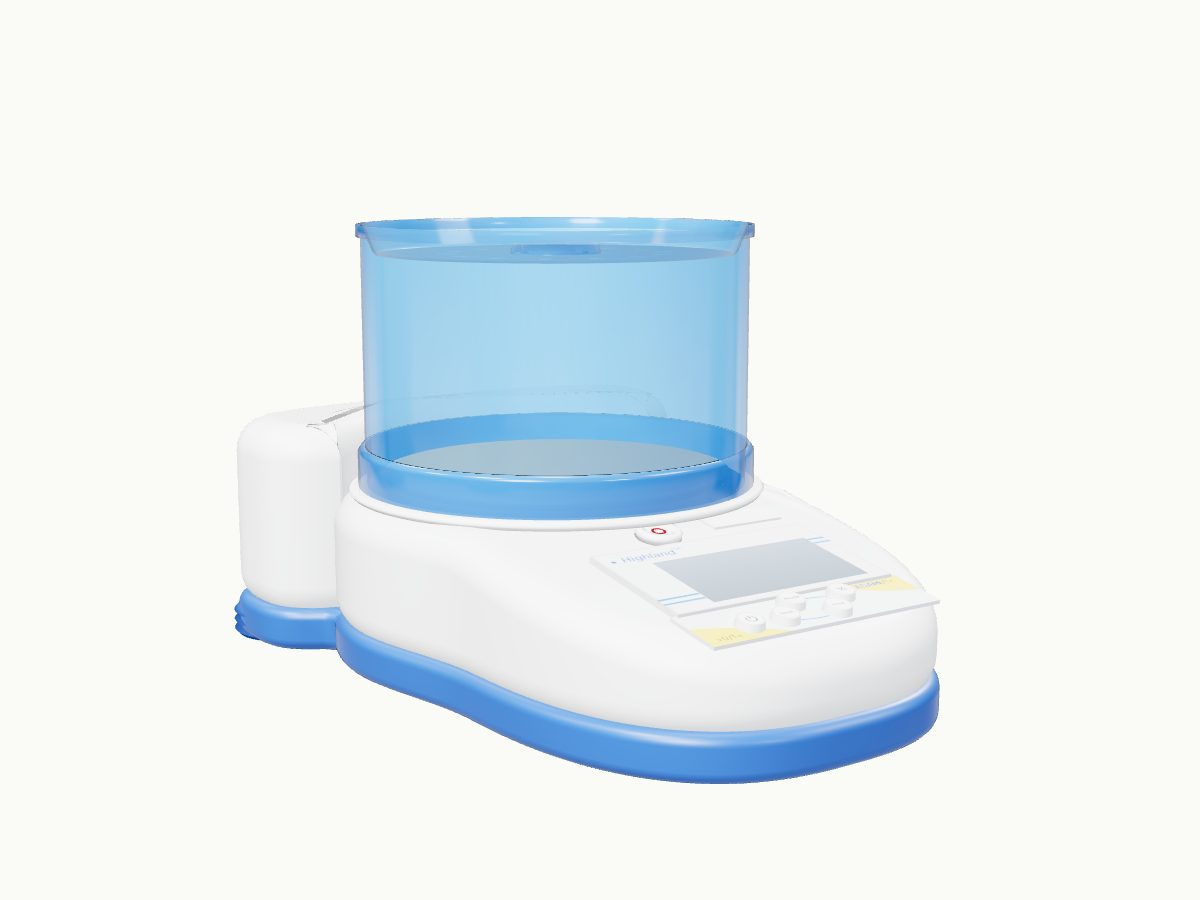
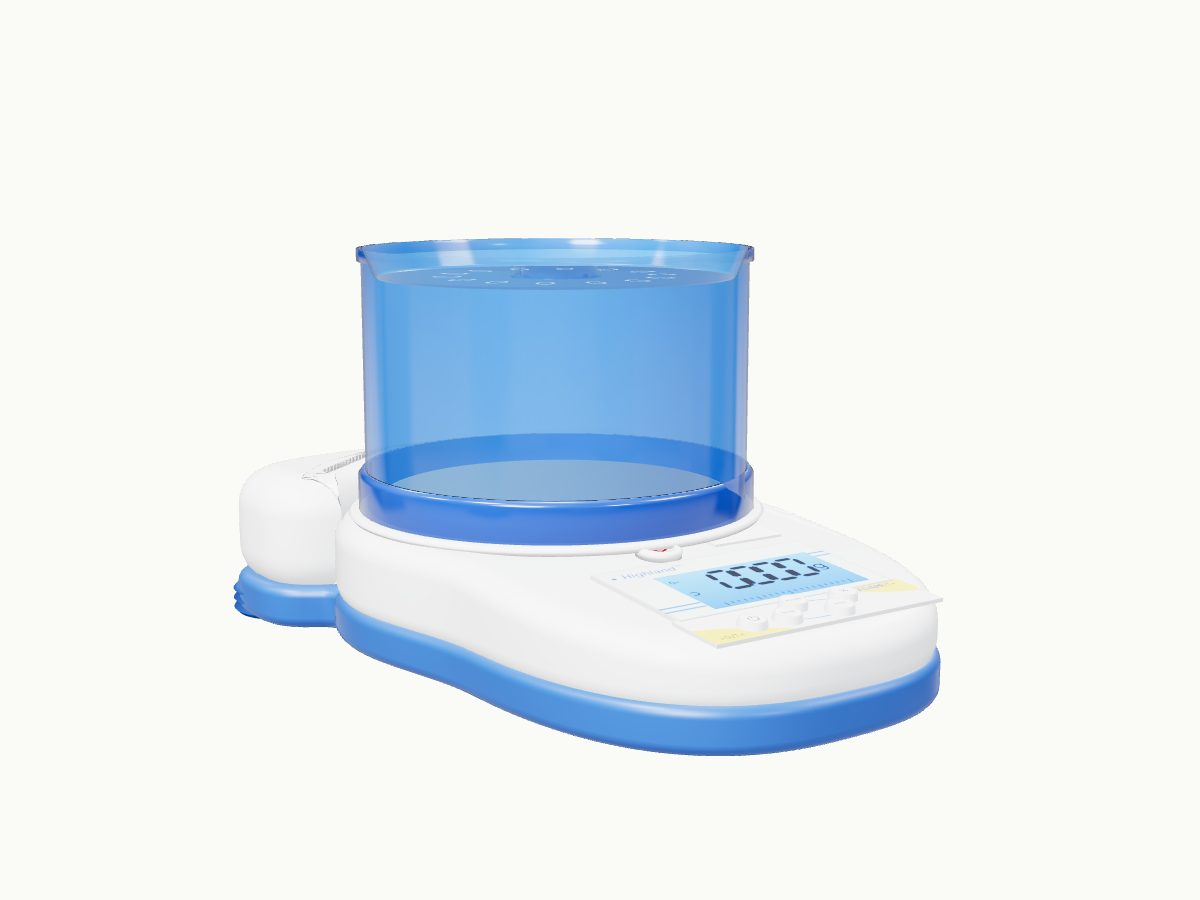
fix(web): Highland closer to the photo
Starts powered with the blue backlit 0.000 g reading (poster and hero),
as in the product photo. Slimmer body: deck 42 mm sloping to a 32 mm
nose, thinner display frame. The rear handle is now a low rounded lobe
just above the deck instead of an upright block (the photo shows no part
of the body at the datasheet's 80 mm). Saturated translucent shield with
darker band and rim, and highlighted lid holes.

Changed region(s): [[0.2775, 0.2178, 0.74, 0.6844], [0.185, 0.6222, 0.8017, 0.8711]]

diff --git a/apps/web/src/lib/showroom/models/adam-highland.ts b/apps/web/src/lib/showroom/models/adam-highland.ts
@@ -11,16 +11,20 @@
  *   • Protector de corrientes Ø 132 × 90 mm
  *   • Pantalla LCD retroiluminada con dígitos de 18 mm
  * Leído de la fotografía (estimado †):
- *   • Planta en lágrima: frente ancho y redondeado (174 mm) que se estrecha
- *     hacia atrás alrededor del protector (Ø 156 †) y termina en un lóbulo
- *     elevado que hace de asa (76 × 62 mm †), con el hueco para los dedos debajo
- *     y un apoyo azul estriado bajo el lóbulo †
- *   • Cubierta blanca sobre una base azul de 15 mm †; la cubierta baja hacia el
- *     frente (58 → 38 mm, ~11° †); el lóbulo del asa llega a los 80 mm oficiales
+ *   • Planta en lágrima: nariz delantera estrecha y redondeada (140 mm †),
+ *     círculo alrededor del protector (Ø 154 †) y atrás un bloque bajo de lado
+ *     a lado (los 174 mm oficiales) que hace de asa: sus lóbulos asoman a los
+ *     lados (72 mm de fondo †), con patas azules estriadas debajo †
+ *   • Cubierta blanca delgada sobre una base azul de 15 mm †; baja hacia una
+ *     nariz plana con el teclado (42 → 32 mm, ~5° †). Los lóbulos del asa
+ *     quedan apenas sobre la cubierta (54 mm †): la fotografía no muestra
+ *     ningún punto del cuerpo a 80 mm, así que manda la fotografía y la cifra
+ *     oficial de alto no se alcanza (quizá incluye el plato o el asiento del
+ *     protector; sin confirmar)
  *   • Centro del plato 26 mm detrás del centro del cuerpo †
- *   • Marco de pantalla 100 × 44 mm con ventana LCD 70 × 30 mm †, logo
+ *   • Marco de pantalla 82 × 44 mm con ventana LCD 60 × 30 mm †, logo
  *     «Highland™» arriba a la izquierda y franjas azules a los lados
- *   • Teclado de membrana 120 × 20 mm †: encendido aparte; Smpl, Mode, % y
+ *   • Teclado de membrana 86 × 20 mm †: encendido aparte; Smpl, Mode, % y
  *     Print sobre un óvalo azul; tara amarilla abajo a la izquierda y arriba a
  *     la derecha; logo ADAM entre pantalla y teclado
  *   • Nivel de burbuja delante del protector y placa de modelo a su derecha †
@@ -30,7 +34,8 @@
  * Ejes: x = ancho, y = alto (0 = suelo), z = fondo; el FRENTE (teclado) mira a
  * +z y el asa queda atrás (z = −126).
  *
- * Animación: `setPower(true)` enciende la retroiluminación («0.000 g»).
+ * Animación: arranca encendida («0.000 g», como la fotografía y el póster);
+ * `setPower(false)` apaga la retroiluminación.
  * `root.userData.sample = 1` coloca una muestra: la tapa del protector se
  * levanta, el platillo baja al plato, la tapa cierra y la lectura sube y se
  * asienta con una oscilación amortiguada; `0` la retira y vuelve a cero.
@@ -43,7 +48,7 @@ import { SANS, canvasTexture, disposer, lathe } from './kit';
 /* ── medidas (mm) ─────────────────────────────────────────────────────────── */
 const HALF_W = 87; // 174 / 2, oficial
 const FRONT = 126; // 252 / 2, oficial
-const TOP = 80; // alto oficial: lo alcanza el lóbulo del asa
+const LOBE_TOP = 54; // lóbulos del asa: apenas sobre la cubierta, como en la fotografía †
 const ZC = -26; // centro del plato y del protector †
 const RING = 77; // radio de la cubierta alrededor del protector †
 const NOSE_Z = 30; // donde empieza la nariz delantera †
@@ -52,8 +57,8 @@ const HUMP_Z = -90; // centro del bloque trasero del asa †
 const HUMP_B = 36; // medio fondo del bloque trasero †
 const HUMP_IN = 74; // radio de su cara cóncava, alrededor del protector †
 const BASE_H = 15; // base azul †
-const DECK = 58; // cubierta plana alrededor del protector †
-const NOSE = 38; // alto de la cubierta en el borde delantero †
+const DECK = 42; // cubierta plana alrededor del protector †
+const NOSE = 32; // alto de la cubierta en el borde delantero †
 const SLOPE_Z = 20; // donde empieza a bajar la cubierta †
 const SLOPE = Math.atan((DECK - NOSE) / (FRONT - SLOPE_Z));
 const PAN_R = 60; // Ø 120 oficial
@@ -238,9 +243,9 @@ export function build(): BuiltModel {
         envMapIntensity: 1.6,
       }),
     );
-  const shieldClear = translucent(0x2896ee, 0.42);
-  const shieldBand = translucent(0x1479d6, 0.8);
-  const lidMat = translucent(0x2b9af0, 0.55);
+  const shieldClear = translucent(0x0f72d8, 0.58);
+  const shieldBand = translucent(0x0753b8, 0.9);
+  const lidMat = translucent(0x1584e6, 0.68);
 
   /* ── base azul, cubierta blanca y asa trasera ───────────────────────────── */
   const plan = outline(halfWidth, FRONT, ZC - RING);
@@ -249,23 +254,23 @@ export function build(): BuiltModel {
   base.position.y = 1.5;
   root.add(base);
 
-  const shellGeo = keep(extrudePlan(plan, DECK - 12, 11, 7));
+  const shellGeo = keep(extrudePlan(plan, DECK - 12, 8, 6));
   shellGeo.translate(0, 12, 0);
   {
     // La cubierta baja hacia el frente: sólo se mueve la mitad superior.
     const pos = shellGeo.getAttribute('position');
     for (let i = 0; i < pos.count; i++) {
       const y = pos.getY(i);
-      if (y > 34) pos.setY(i, y + deckAt(pos.getZ(i)) - DECK);
+      if (y > (DECK + 12) / 2) pos.setY(i, y + deckAt(pos.getZ(i)) - DECK);
     }
     shellGeo.computeVertexNormals();
   }
   root.add(new THREE.Mesh(shellGeo, white));
 
-  // Asa: bloque trasero de lado a lado que sube a los 80 mm oficiales, con la
+  // Asa: bloque trasero bajo y redondeado, de lado a lado, con la
   // cara cóncava hacia el protector; sus extremos son los lóbulos que se ven a
   // los lados, detrás del plato.
-  const humpGeo = keep(extrudePlan(humpOutline(), TOP - 12, 12, 6));
+  const humpGeo = keep(extrudePlan(humpOutline(), LOBE_TOP - 12, 14, 6));
   humpGeo.translate(0, 12, 0);
   root.add(new THREE.Mesh(humpGeo, white));
 
@@ -409,6 +414,20 @@ export function build(): BuiltModel {
     h.absellipse(Math.cos(a) * 37, Math.sin(a) * 37, 3.6, 2.2, 0, Math.PI * 2, true, a);
     disk.holes.push(h);
   }
+  // Brillo en el borde de cada orificio: en la fotografía se leen como gotas claras.
+  const holeRimGeo = keep(new THREE.RingGeometry(1, 1.45, 28));
+  holeRimGeo.rotateX(-Math.PI / 2);
+  const holeRimMat = keep(new THREE.MeshBasicMaterial({ color: 0xe3f4ff, transparent: true, opacity: 0.85, depthWrite: false }));
+  for (let i = 0; i < 14; i++) {
+    const a = (i / 14) * Math.PI * 2;
+    const rimMesh = new THREE.Mesh(holeRimGeo, holeRimMat);
+    // El disco se tumba con rotateX(−π/2): la y del plano pasa a −z.
+    rimMesh.position.set(Math.cos(a) * 37, -LID_DROP + 0.3, -Math.sin(a) * 37);
+    rimMesh.rotation.y = a;
+    rimMesh.scale.set(3.6, 1, 2.2);
+    rimMesh.renderOrder = 5;
+    lid.add(rimMesh);
+  }
   const lidDiskGeo = keep(new THREE.ShapeGeometry(disk, 24));
   lidDiskGeo.rotateX(-Math.PI / 2);
   const lidDisk = new THREE.Mesh(lidDiskGeo, lidMat);
@@ -536,7 +555,7 @@ export function build(): BuiltModel {
       g.fillRect(w - 80, 150, 80, 12);
     }).texture,
   );
-  const frame = new THREE.Mesh(keep(new THREE.BoxGeometry(FW, 2.2, FD)), [
+  const frame = new THREE.Mesh(keep(new THREE.BoxGeometry(FW, 1.4, FD)), [
     bezel,
     bezel,
     keep(new THREE.MeshStandardMaterial({ map: frameTex, roughness: 0.45 })),
@@ -544,13 +563,14 @@ export function build(): BuiltModel {
     bezel,
     bezel,
   ]);
-  frame.position.set(0, 1.1, FZ);
+  frame.position.set(0, 0.7, FZ);
   fascia.add(frame);
 
   // Ventana LCD 70 × 30 mm (10 px por mm).
   const LW = 60;
   const LD = 30;
-  let screenOn = false;
+  // Encendida desde el principio: el póster y la portada muestran «0.000 g» como la fotografía.
+  let screenOn = true;
   let readValue = 0;
   let stable = true;
   const lcd = canvasTexture(600, 300, (g, w, h) => {
@@ -618,7 +638,7 @@ export function build(): BuiltModel {
   const lcdGeo = keep(new THREE.PlaneGeometry(LW, LD));
   lcdGeo.rotateX(-Math.PI / 2);
   const lcdMesh = new THREE.Mesh(lcdGeo, lcdMat);
-  lcdMesh.position.set(4, 2.3, FZ + 4);
+  lcdMesh.position.set(4, 1.5, FZ + 4);
   fascia.add(lcdMesh);
 
   // Panel del teclado: tara amarilla, óvalo azul, logo ADAM.
@@ -738,15 +758,15 @@ export function build(): BuiltModel {
   const consoleAnchor = anchor(fascia, 0, 0, 62);
   const panAnchor = anchor(root, 34, PAN_TOP + 2, ZC + 30);
   const shieldAnchor = anchor(root, -46, DECK + SHIELD_H - 6, ZC + 32);
-  const handleAnchor = anchor(root, 0, TOP + 1, -104);
+  const handleAnchor = anchor(root, -70, LOBE_TOP + 1, -96);
   const shieldMid = anchor(root, 0, DECK + 30, ZC + 20);
   const wholeMid = anchor(root, 0, 64, -4);
 
   /* ── animación ──────────────────────────────────────────────────────────── */
-  let powered = false;
+  let powered = true;
   let sampleT = 0; // 0 sin muestra … 1 muestra en el plato y tapa cerrada
   let landedFor = -1; // segundos desde que la muestra tocó el plato
-  let backlight = 0;
+  let backlight = 1;
   let shown = '';
 
   const SAMPLE_UP = DECK + SHIELD_H + 60;
@@ -809,7 +829,7 @@ export function build(): BuiltModel {
       }
 
       // Retroiluminación.
-      backlight += ((powered ? Math.max(level, 0.6) : 0) - backlight) * Math.min(1, dt * 5);
+      backlight += ((powered ? 1 : 0) - backlight) * Math.min(1, dt * 5);
       lcdMat.emissiveIntensity = 0.42 * backlight;
       if (!powered && level < 0.02 && backlight < 0.05) screenOn = false;
       redraw();

diff --git a/apps/web/src/lib/showroom/stories/adam-highland.ts b/apps/web/src/lib/showroom/stories/adam-highland.ts
@@ -43,8 +43,8 @@ export const story: ProductStoryConfig = {
       cameraView: 'general',
       textHeadline: 'Precisión que se lleva',
       textBody: 'Balanza portátil Highland · {Capacidad}',
-      // Vuelta entera: termina en la pose de presentación.
-      animationHook: (scene, t) => pose(scene, { power: false, yaw: smoothstep(t) * Math.PI * 2, sample: false }),
+      // Encendida con «0.000 g», como en la fotografía; vuelta entera que termina en la pose de presentación.
+      animationHook: (scene, t) => pose(scene, { power: true, yaw: smoothstep(t) * Math.PI * 2, sample: false }),
     },
     {
       id: 'pantalla',
